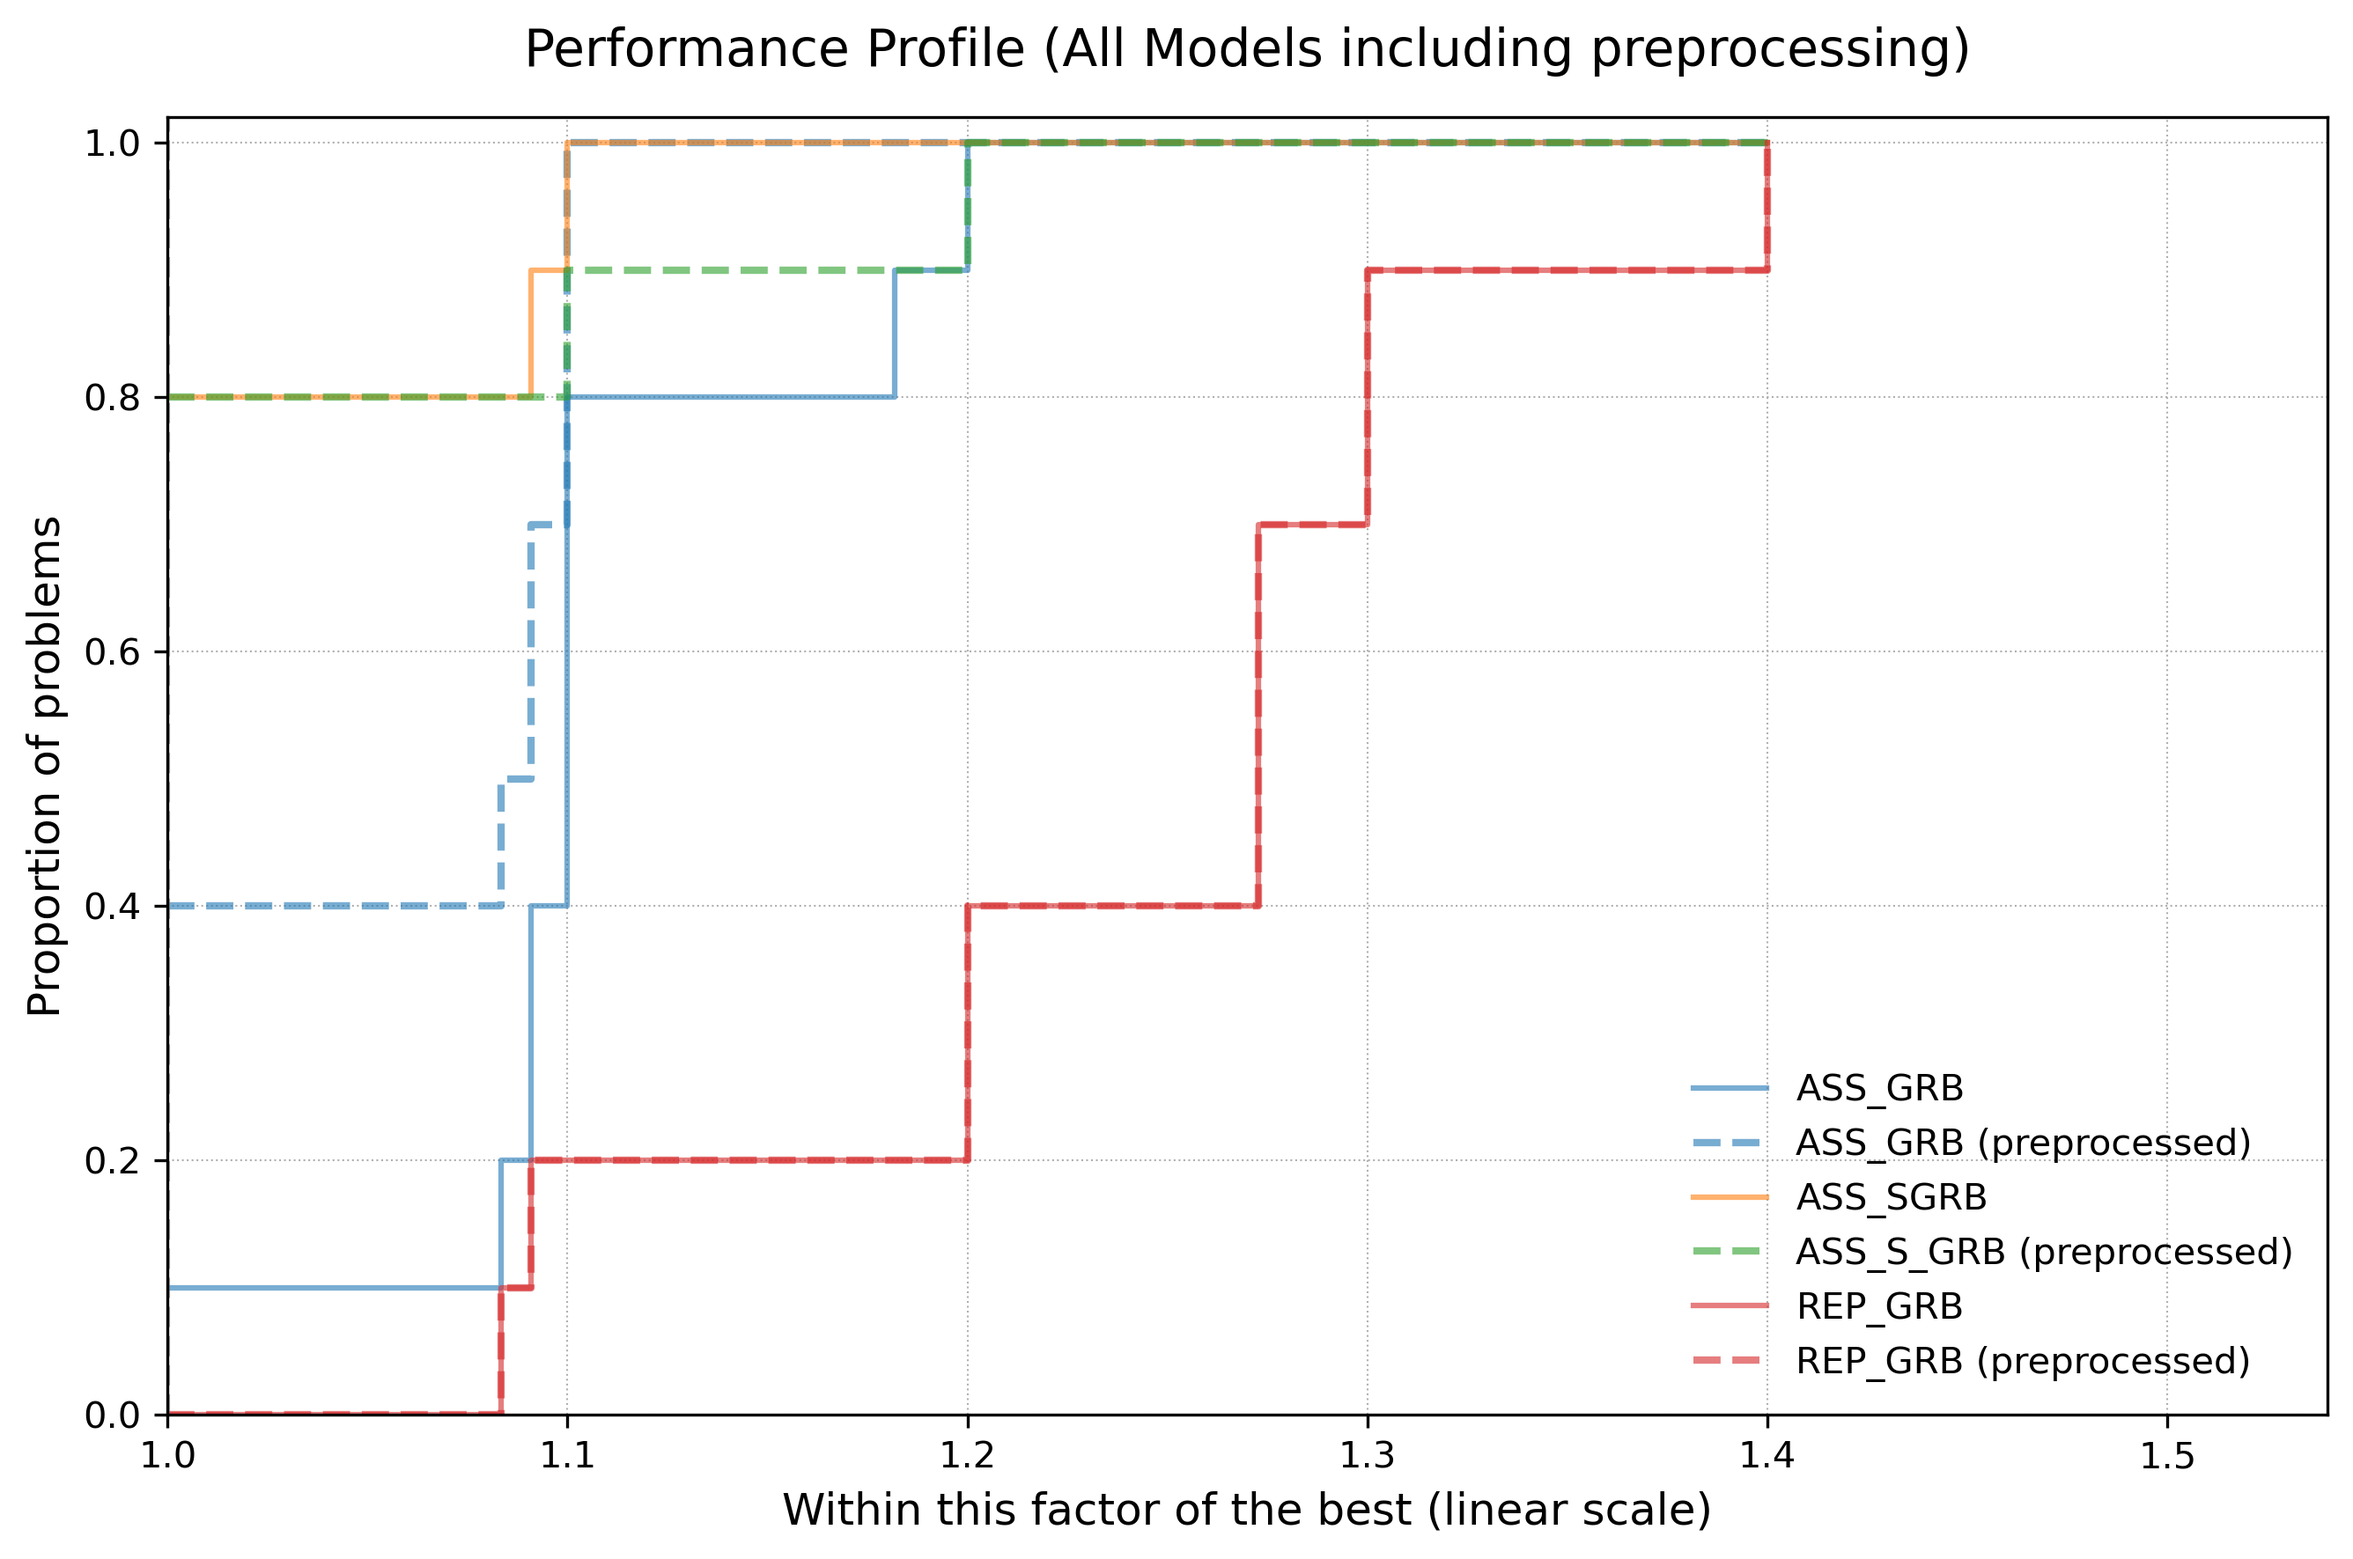
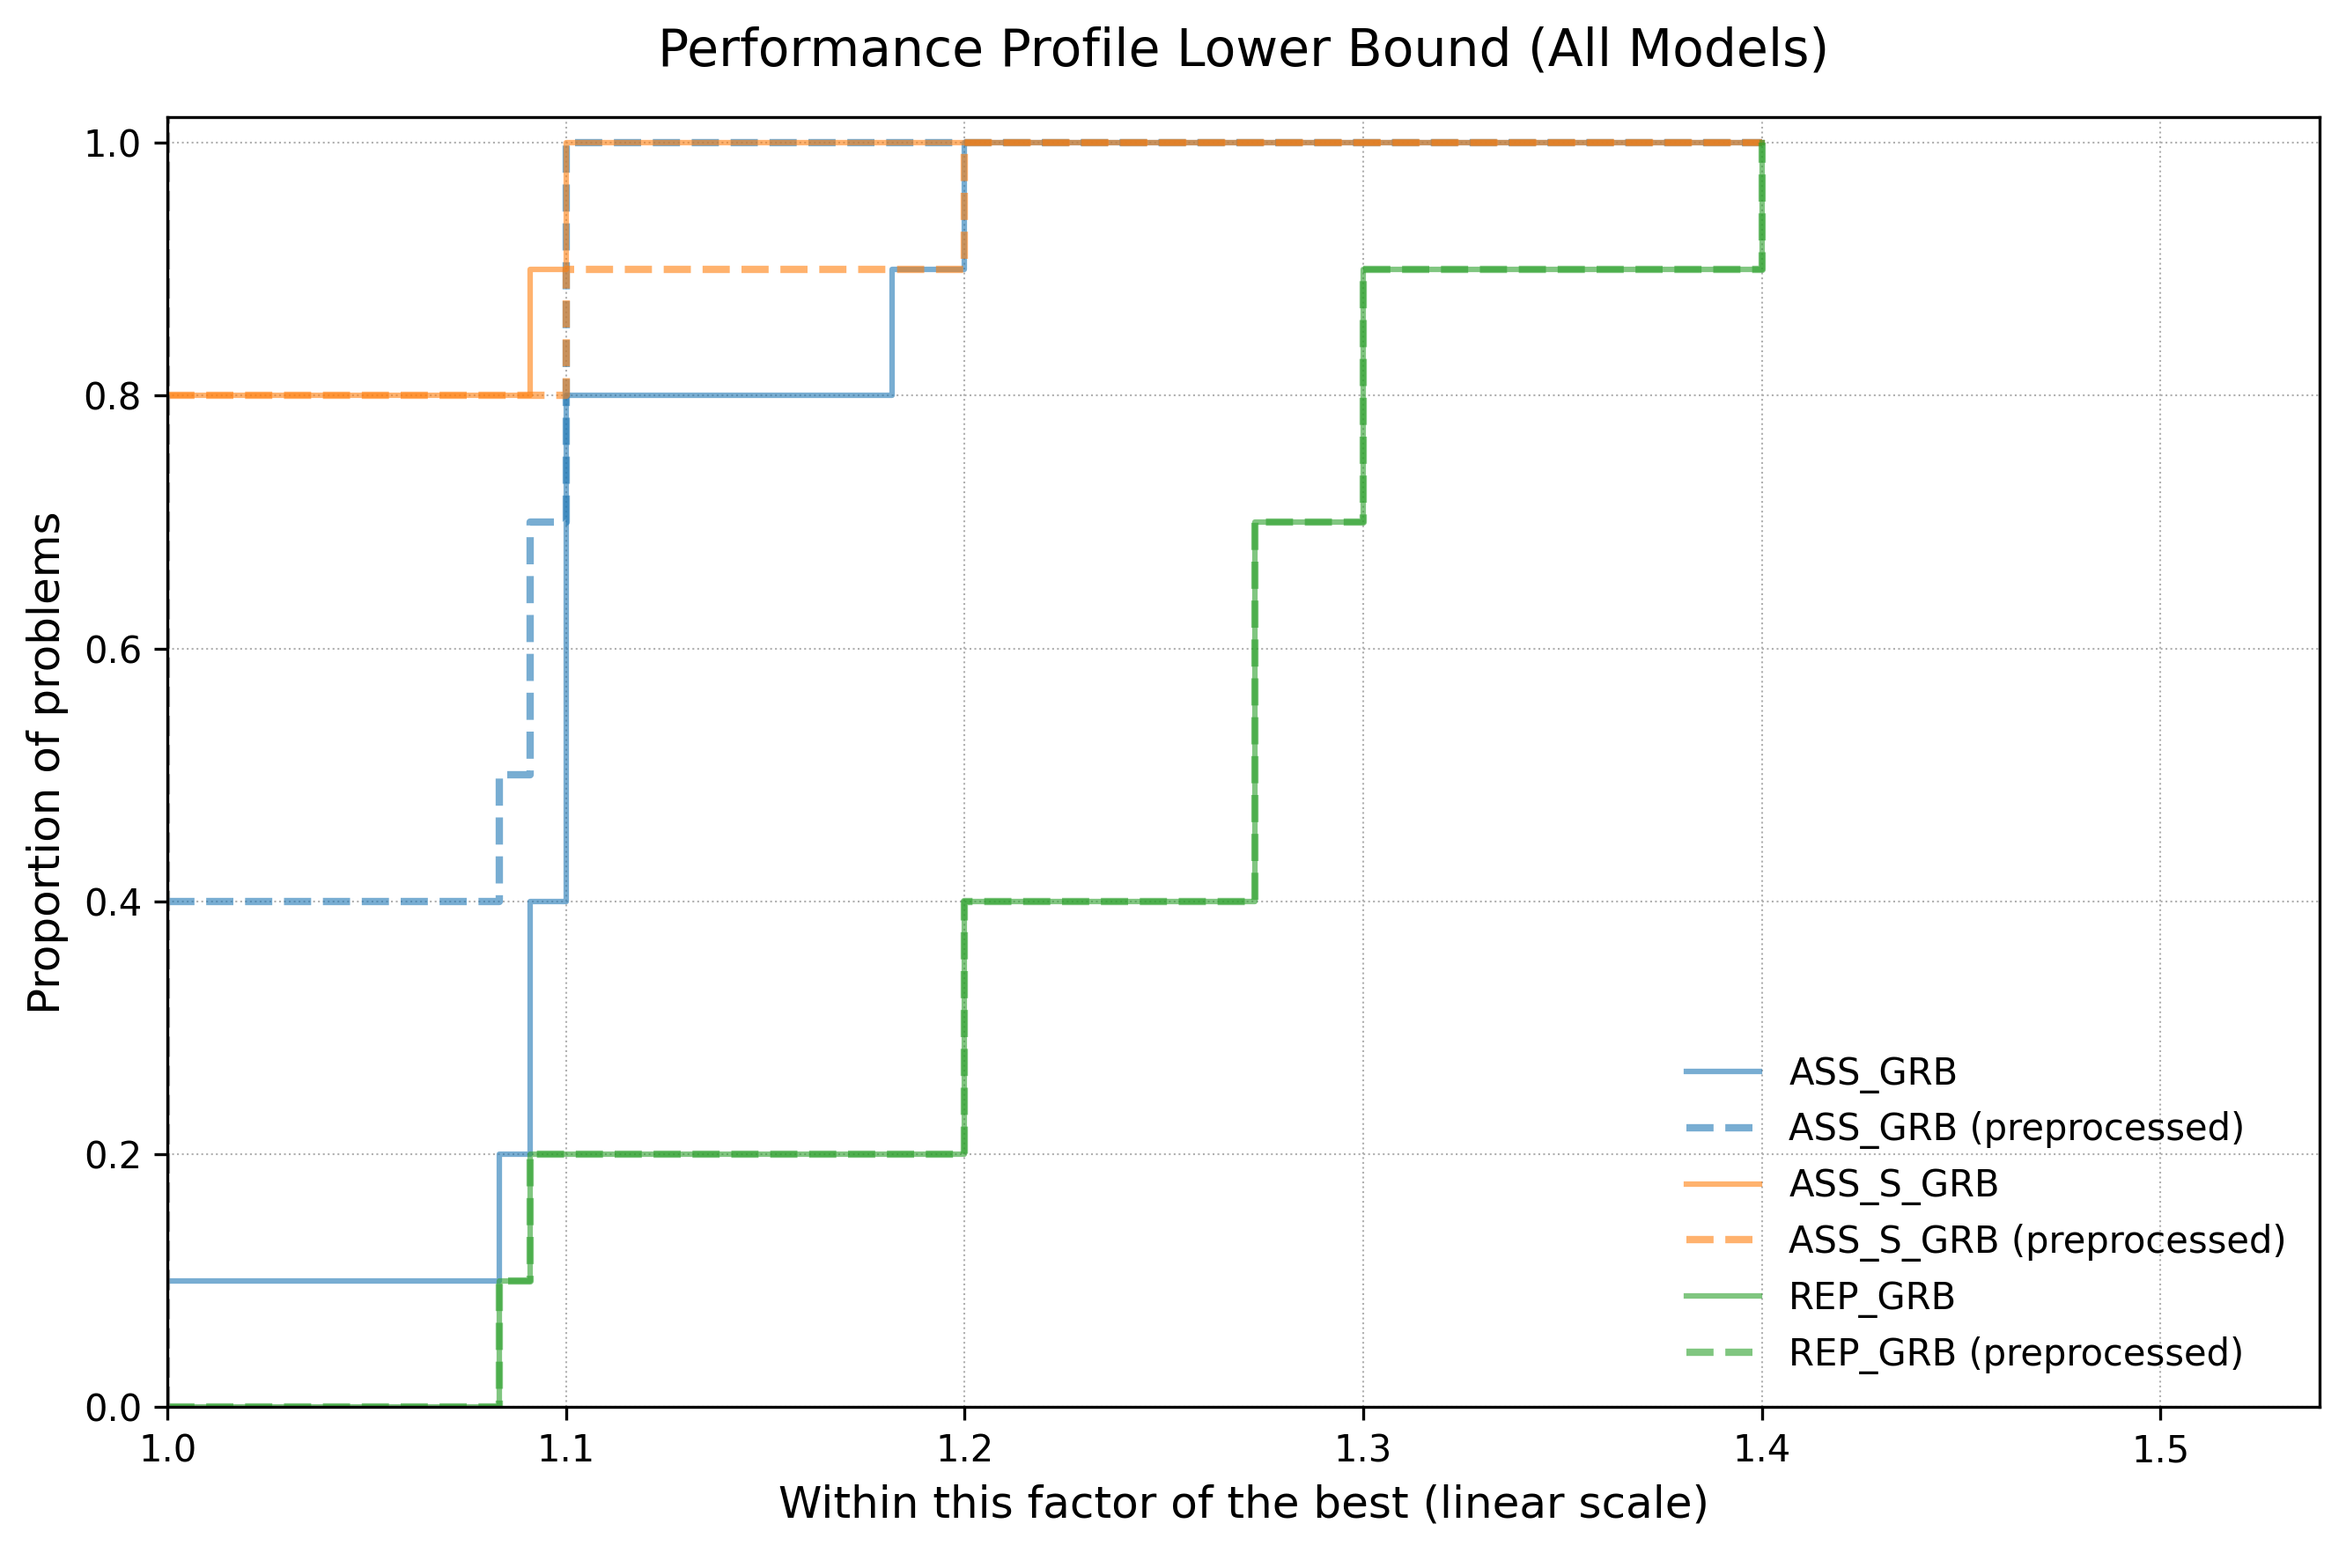
feat: added evaluation of benchmarks

diff --git a/sheets/05_graph_coloring/eprugho99.py b/sheets/05_graph_coloring/eprugho99.py
@@ -1,12 +1,12 @@
 # from models.gurobi.ass_grb import ASSGRB
 # from models.gurobi.ass_s_grb import ASS_SGRB
 # from models.gurobi.rep_grb import REP_GRB
-from models.cp_sat.ass_cp import ASSCP
-from models.cp_sat.ass_s_cp import ASS_SCP
-from models.cp_sat.rep_cp import REP_CP
-from models.cp_sat.cp_alldiff import CP_ALLDIFF
-from models.cp_sat.cp_neq import CP_NEQ
-from models.sat.sat_form_solver import GCSATSolver
+# from models.cp_sat.ass_cp import ASSCP
+# from models.cp_sat.ass_s_cp import ASS_SCP
+# from models.cp_sat.rep_cp import REP_CP
+# from models.cp_sat.cp_alldiff import CP_ALLDIFF
+# from models.cp_sat.cp_neq import CP_NEQ
+# from models.sat.sat_form_solver import GCSATSolver
 
 import os
 from _gclib import GCGraphInstance
@@ -28,20 +28,23 @@ data = pd.DataFrame({
 
 
 
-instances = [0, 0, 0, 1, 1, 1, 2, 2, 2, 3, 3, 3, 4, 4, 4, 5, 5, 5, 6, 6, 6, 7, 7, 7, 8, 8, 8, 9, 9, 9]
+instances = [0, 0, 0, 1, 1, 1, 2, 2, 2, 3, 3, 3, 4, 4, 4, 5, 5, 5, 6, 6, 6, 7, 7, 7, 8, 8, 8, 9, 9, 9, 0, 0, 0, 1, 1, 1, 2, 2, 2, 3, 3, 3, 4, 4, 4, 5, 5, 5, 6, 6, 6, 7, 7, 7, 8, 8, 8, 9, 9, 9]
 
 
 
 
 
 
-strategies = ["ASS_GRB", "ASS_S_GRB", "REP_GRB", "ASS_GRB", "ASS_S_GRB", "REP_GRB", "ASS_GRB", "ASS_S_GRB", "REP_GRB", "ASS_GRB", "ASS_S_GRB", "REP_GRB", "ASS_GRB", "ASS_S_GRB", "REP_GRB", "ASS_GRB", "ASS_S_GRB", "REP_GRB", "ASS_GRB", "ASS_S_GRB", "REP_GRB", "ASS_GRB", "ASS_S_GRB", "REP_GRB", "ASS_GRB", "ASS_S_GRB", "REP_GRB", "ASS_GRB", "ASS_S_GRB", "REP_GRB"]
+
+strategies = ["ASS_GRB (preprocessed)", "ASS_S_GRB (preprocessed)", "REP_GRB (preprocessed)", "ASS_GRB (preprocessed)", "ASS_S_GRB (preprocessed)", "REP_GRB (preprocessed)", "ASS_GRB (preprocessed)", "ASS_S_GRB (preprocessed)", "REP_GRB (preprocessed)", "ASS_GRB (preprocessed)", "ASS_S_GRB (preprocessed)", "REP_GRB (preprocessed)", "ASS_GRB (preprocessed)", "ASS_S_GRB (preprocessed)", "REP_GRB (preprocessed)", "ASS_GRB (preprocessed)", "ASS_S_GRB (preprocessed)", "REP_GRB (preprocessed)", "ASS_GRB (preprocessed)", "ASS_S_GRB (preprocessed)", "REP_GRB (preprocessed)", "ASS_GRB (preprocessed)", "ASS_S_GRB (preprocessed)", "REP_GRB (preprocessed)", "ASS_GRB (preprocessed)", "ASS_S_GRB (preprocessed)", "REP_GRB (preprocessed)", "ASS_GRB (preprocessed)", "ASS_S_GRB (preprocessed)", "REP_GRB (preprocessed)", "ASS_GRB", "ASS_S_GRB", "REP_GRB", "ASS_GRB", "ASS_S_GRB", "REP_GRB", "ASS_GRB", "ASS_S_GRB", "REP_GRB", "ASS_GRB", "ASS_S_GRB", "REP_GRB", "ASS_GRB", "ASS_S_GRB", "REP_GRB", "ASS_GRB", "ASS_S_GRB", "REP_GRB", "ASS_GRB", "ASS_S_GRB", "REP_GRB", "ASS_GRB", "ASS_S_GRB", "REP_GRB", "ASS_GRB", "ASS_S_GRB", "REP_GRB", "ASS_GRB", "ASS_S_GRB", "REP_GRB"]
 
 
 
 
 
-metrics = [9.00000000000091, 9.00000000000091, 9.00000000000091, 10.0, 10.0, 10.0, 9.000000000000021, 9.000000000000021, 9.000000000000021, 10.0, 10.0, 10.0, 9.000000000000014, 9.000000000000014, 9.000000000000014, 10.0, 10.0, 10.0, 9.000000000000004, 9.000000000000004, 9.000000000000004, 10.0, 10.0, 10.0, 10.0, 10.0, 10.0, 9.000000000000009, 9.000000000000009, 9.000000000000009]
+
+metrics = [11.0, 11.0, 12.0, 11.0, 11.0, 14.0, 12.0, 11.0, 14.0, 11.0, 10.0, 12.0, 12.0, 11.0, 14.0, 10.0, 11.0, 13.0, 11.0, 10.0, 13.0, 10.0, 10.0, 14.0, 11.0, 12.0, 12.0, 13.0, 12.0, 13.0, 11.0, 11.0, 12.0, 12.0, 12.0, 14.0, 13.0, 11.0, 14.0, 11.0, 10.0, 12.0, 12.0, 11.0, 14.0, 11.0, 11.0, 13.0, 11.0, 10.0, 13.0, 11.0, 10.0, 14.0, 12.0, 10.0, 12.0, 13.0, 12.0, 13.0]
+
 
 
 
@@ -55,7 +58,6 @@ for i in range(10):
     with open(f"instances/erdos_renyi_graph{name}.col", "w", encoding="utf-8") as file:
         for u, v in graph.edges():
             file.write(f"e {u} {v}\n")
-    """
 
     sat = GCSATSolver(graph)
     sol_sat = sat.solve(60)
@@ -63,7 +65,6 @@ for i in range(10):
     strategies.append("GCSATSolver")
     metrics.append(sat.lb)
 
-    """
     ng = ASSGRB(graph)
     sol_ng = ng.solve(60)
     instances.append(i)
@@ -83,7 +84,6 @@ for i in range(10):
     instances.append(i)
     strategies.append("REP_GRB")
     metrics.append(ds.lb)
-    """
     
     ng = ASSCP(graph)
     sol_ng = ng.solve(60)
@@ -114,12 +114,14 @@ for i in range(10):
     instances.append(i)
     strategies.append("CP_ALLDIFF")
     metrics.append(ng.lb) 
+    """
 
+""" 
 with open("all_dataset_barabasi_albert_lb.txt", "w", encoding="utf-8") as file:
     file.write(f"[{', '.join(map(str, instances))}]\n")
     file.write(f'''["{'", "'.join(strategies)}"]\n''')
     file.write(f"[{', '.join(map(str, metrics))}]\n")
-
+"""
 
 data = pd.DataFrame({
     "instance": instances,
@@ -133,7 +135,7 @@ ax = ppp.plot_performance_profile(
     instance_column="instance",
     strategy_column="strategy",
     metric_column="metric",
-    direction="max",        # "min" wenn kleiner besser ist
+    direction="min",        # "min" wenn kleiner besser ist
     comparison="relative",  # oder "absolute"
     title="Performance Profile Lower Bound (All Models)",
     highlight_best=True,
@@ -141,5 +143,5 @@ ax = ppp.plot_performance_profile(
 
 #plt.show()
 
-ax.figure.savefig("benchmarking/plots/all_performance_barabasi_albert_lb_test.png", dpi=300, bbox_inches="tight")
+ax.figure.savefig("benchmarking/plots/grb_performance_erd_with_preprocessing.png", dpi=300, bbox_inches="tight")
 

diff --git a/sheets/05_graph_coloring/models_evalutation.md b/sheets/05_graph_coloring/models_evalutation.md
@@ -1,0 +1,89 @@
+# Evaluating the different Models
+We evaluate the performance of the different solvers and implementations using performance profiles on a 60 second time-limit and 10 different graphs at a time. For the graphs, we generated 10 instances of erdos-renyi graphs, each having above 150 nodes and an edge probability of 0.4. We also generated 10 barabasi-albert graphs, each having above 210 nodes and an m-value of 15. We used both graph types separately determine differences in performances across solvers.
+
+## Performance on the objective value
+### Erdos-Renyi Graphs
+For these graphs, the 60 second performance profile looks as follows:
+![image](/benchmarking/plots/all_performance_profile_erdos_renyi_obj.png)
+
+The assignment-based CP-SAT solver performs the best, finding the best solution across all instances. The representative-based Gurobi solver performs the worst, finding an objective value within 55% of the best for all instances (in the worst case). Interestingly, the CP-SAT implementation of the same method performs far better, being the third best performing solver.
+
+This can be observerd for almost all methods: the CP-SAT implementation finds a better value more often than the Gurobi implementation. This might lead one to believe that CP-SAT finds good solution quickly, while Gurobi takes longer.
+
+### Barabasi-Albert Graphs
+For these graphs, the 60 second performance profile looks as follows:
+![image](/benchmarking/plots/all_performance_profile_barabasi_albert_obj.png)
+
+While almost all solvers found the same values for these graphs, none of them proved optimality and all timed out. Regardless, this profile differs a lot from the one above, with most solvers seemingly performing the same. However, just like with the Erdos-Renyi Graphs, the REP_GRB solver performed the worst, with the ASS_GRB solver being second to last.
+
+Notably, the pure SAT solver finds the best solution for90% of instances, but reaches the top last, finding asolution only within 30% of the best known for all instances.
+
+
+## Performance of finding Lower Bounds
+### Erdos-Renyi Graphs
+For these graphs, the 60 second performance profile for thelower bound looks as follows:
+![image](/benchmarking/plots/all_performance_profile_erdos_renyi_lb.png)
+
+The pure SAT solver, ASS_CP, and CP_ALLDIFF find the best lower bound after 60 seconds, while REP_GRB performs the worst, finding a lower bound within 40% of the best known for all instances.
+
+
+### Barabasi-Albert Graphs
+For these graphs, the 60 second performance profile for the lower bound looks as follows:
+![image](/benchmarking/plots/all_performance_profile_barabasi_albert_lb.png)
+
+Here, the GCSATSolver performs the best, being alone on the podium. Interestingly, the CP_NEQ solver performs the worst, while the REP_GRB solver improved greatly, finding a lower bound within 11% of the best known for all instances.
+Even though the ASS_CP and CP_ALLDIFF solver perform slightly worse, all solvers perfrom more similarly than with the Erdos-Renyi Graphs.
+
+
+## Performance on the objective value with preprocessing 
+Here, we implemented the Preprocessor and applied it to the 20 different graphs of the benchmarking set. On average, the instances were reduced by 20 - 30 nodes, with the Erdos-Renyi Graphs reducing the most and the Barabasi-Albert Graphs the least.
+
+### Erdos-Renyi Graphs
+For these preprocessed graphs, the 60 second performance profile looks as follows:
+![image](/benchmarking/plots/all_performance_profile_erdos_renyi_obj_preprocessed.png)
+
+Of course, this is not informative on the impact of solver performance, so we plot the solvers objective values with and without preprocessing. To avoid clutter, we split the solvers into two plots, one with the CP-SAT and pure SAT solvers, and one with the Gurobi solvers.
+
+#### CP-SAT and pure SAT
+![image](/benchmarking/plots/sat_performance_erd_with_preprocessing.png)
+
+_Note: because of a naming accident, the ASS_CP solver has a blue-dotted and yellow line, instead of a blue-solid line._
+
+A performance increase can be seen for:
+- ASS_CP, finding the best known solution for all instances instead of only for 90%
+- REP_CP, finding a solution within 12% of the best for all instances instead of within 23%
+
+Curiosly, the GCSATSolver performs worse with preprocessing than without, finding a solution within 33% of the best for 50% of instances instead of for 60% of instances without the preprocessing.
+This may be due to general fluctuations in the calculating process, which can have a big impact since the sample size is only 10 (difference in the datasat is one value being 13 instead of 12).
+ 
+
+#### Gurobi 
+![image](/benchmarking/plots/grb_performance_erd_with_preprocessing.png)
+
+The REP_GRB solver sees no improvement, while the ASS_GRB improves greatly, finding the best known solution for 40% of instances instead of 10% and climbing faster. The ASS_S_GRB solver performed slightly worse with the preprocessing applied. 
+
+
+### Barabasi-Albert Graphs
+
+For these preprocessed graphs, the 60 second performance profile looks as follows:
+![image](/benchmarking/plots/all_performance_profile_barabasi_albert_obj_preprocessed.png)
+
+
+Like before, the split the plot into two groups and compare directly with the performance without preprocessing.
+
+#### CP-SAT and pure SAT
+![image](/benchmarking/plots/sat_performance_brb_with_preprocessing.png)
+
+We can see that basically all solvers perform the same, with or without preprocessing. The GCSATSolver however, shows great improvement, finding a value within 10% of the best known for all instances with preprocessing. Before, the solver only found a value within 30% for all instances.
+
+#### Gurobi
+![image](/benchmarking/plots/grb_performance_brb_with_preprocessing.png)
+
+Similarly, the Gurobi solvers performed largely the same. The ASS_GRB solver improved and was able to find the best known solution for 70% of all instances, compared to 50% of instances before. For finding a solution within 10% or more of the best known, both variant performed the same again.
+
+
+The fact that most solvers did not experience an impact, is likely due to the fact that the preprocessing technique could not be applied to these graphs properly, leading to only a small reduction in graph size. 
+
+
+
+<!-- These graphs are constructed so that every node is connected to a certain number of other nodes, resulting in a lot of cliques of the same size and thus, reducing the effect of the preprocessor. -->
